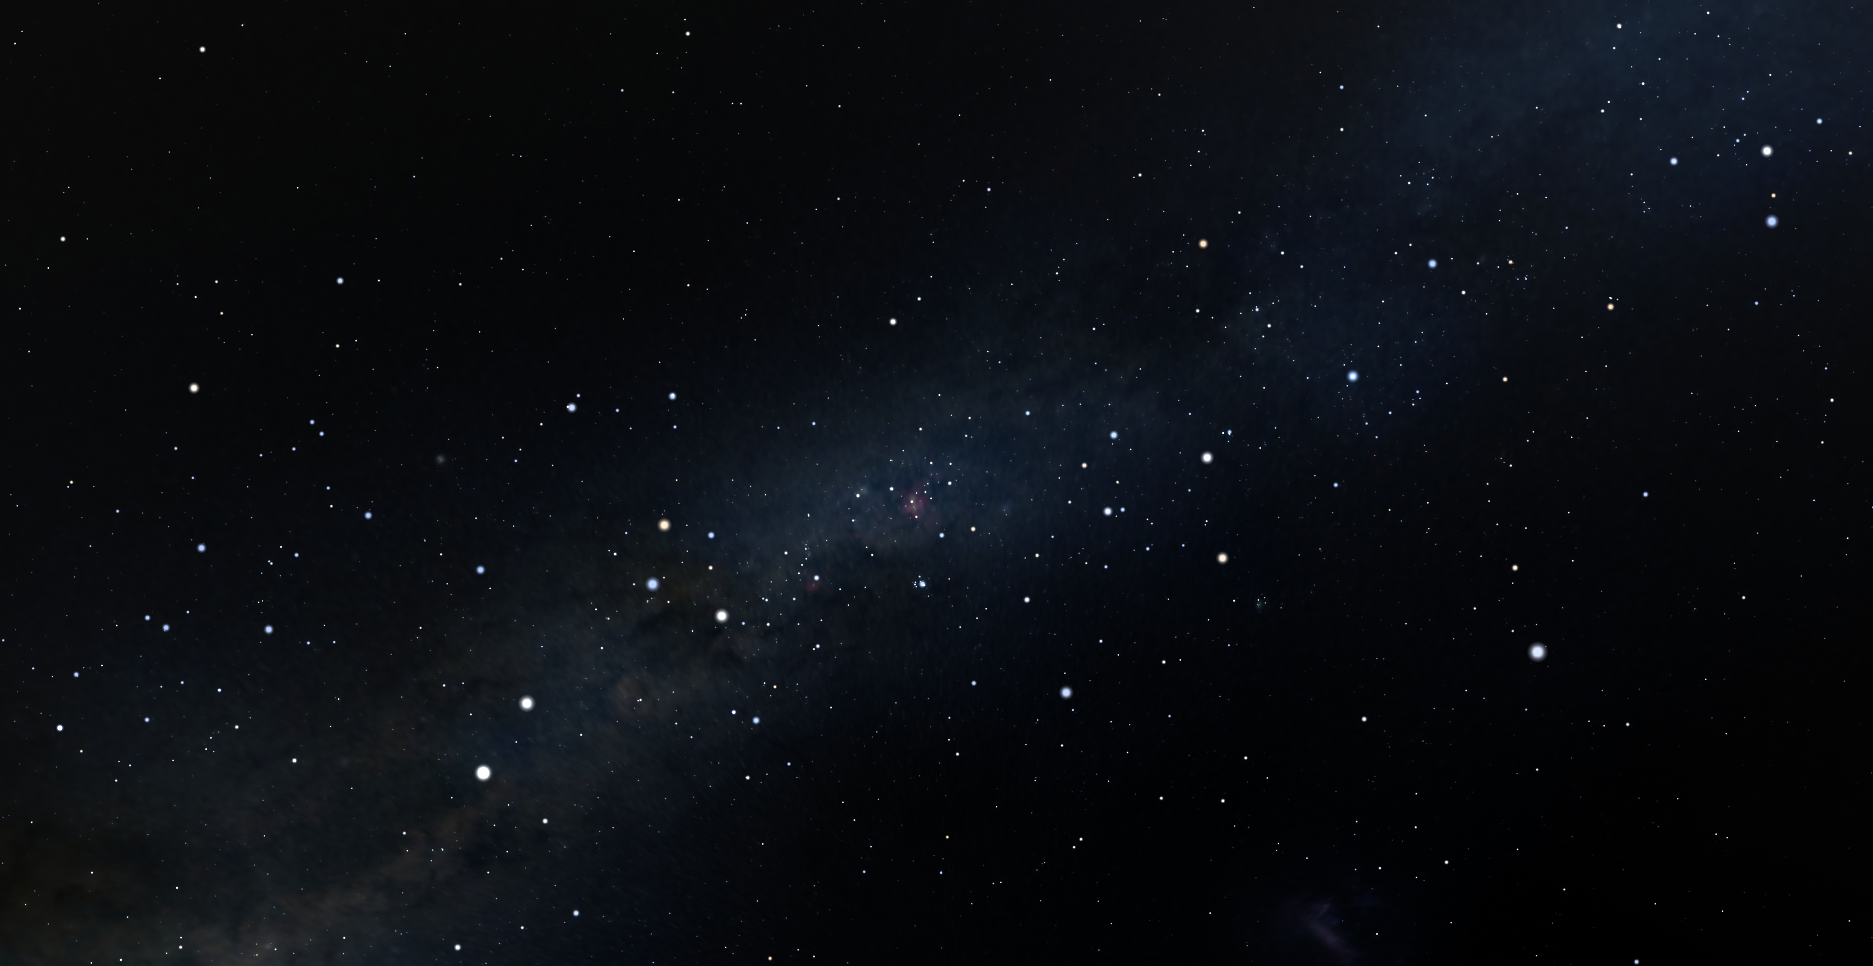
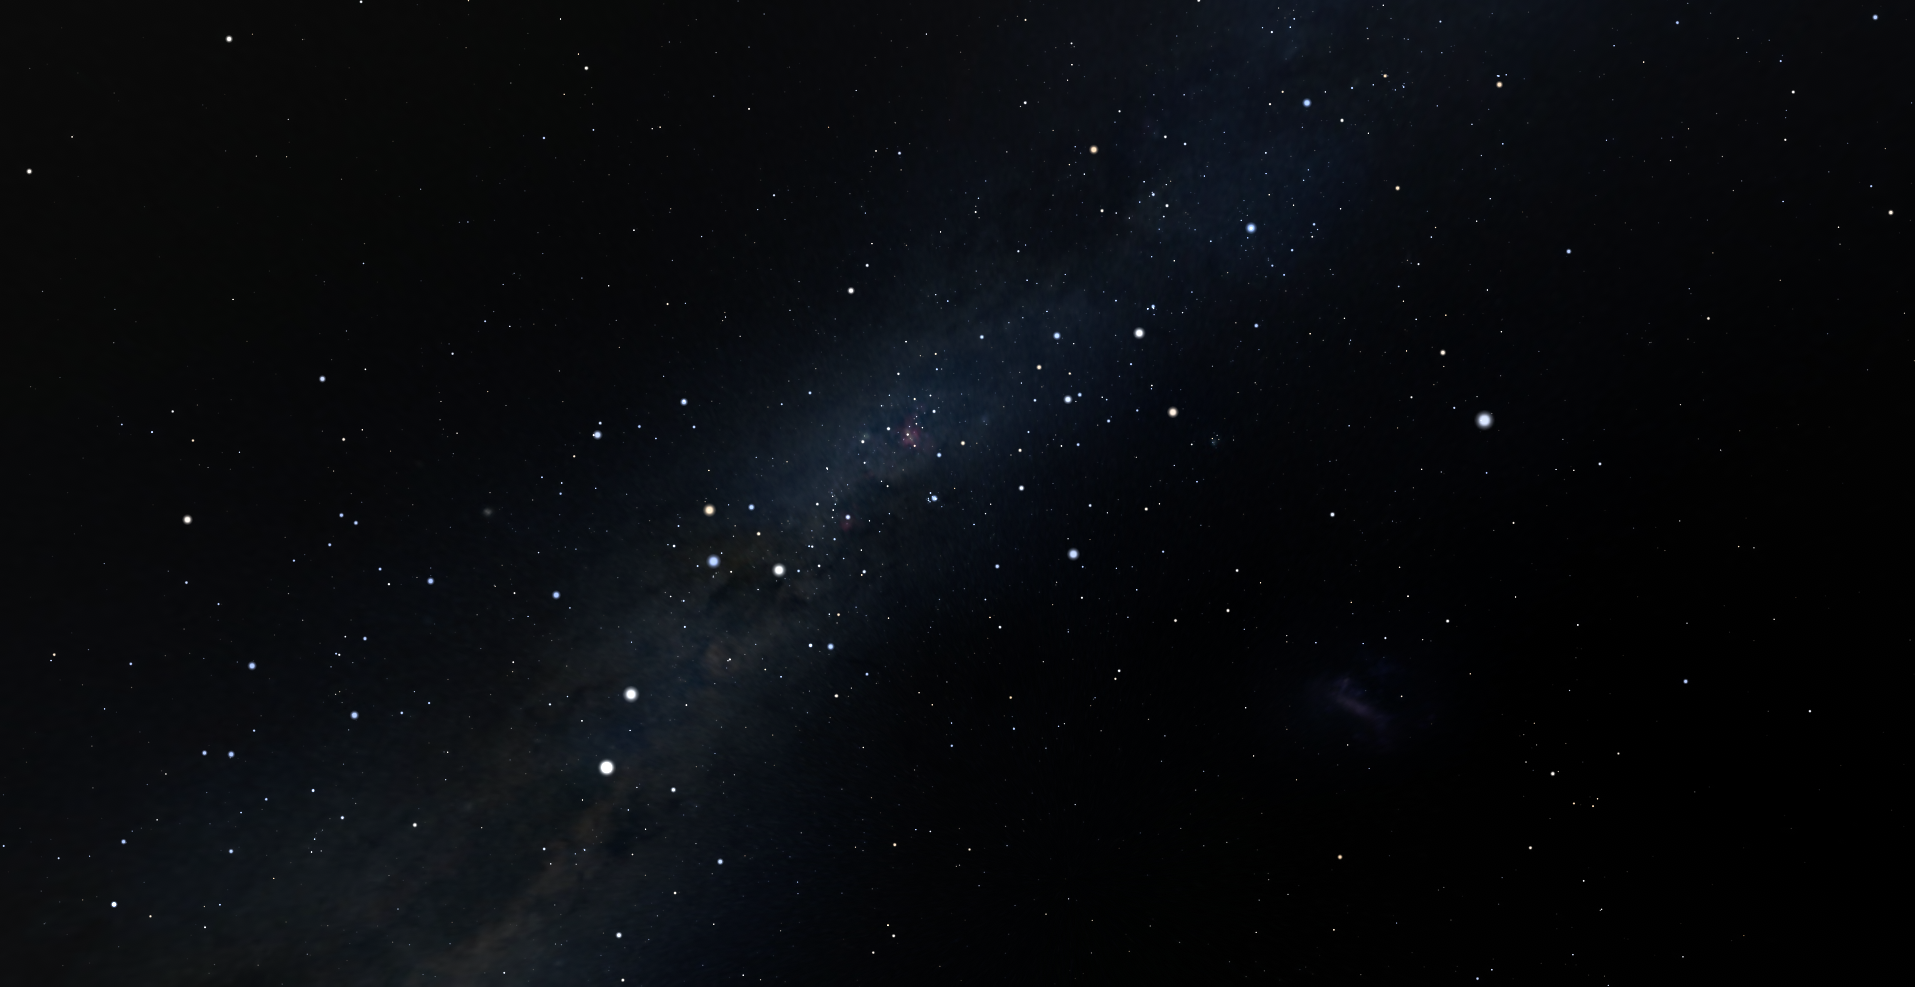
Correct Images, and correct pov

diff --git a/src/pair_approach/main.py b/src/pair_approach/main.py
@@ -13,7 +13,7 @@ from attitude_determination.compute import calculate_attitude, print_results
 IMAGE_PATH = os.path.join(os.path.dirname(__file__), '../images/MatchingImage.png')
 CATALOG_PATH = os.path.join(os.path.dirname(__file__), '../HipparcosCatalog.txt')
 OUTPUT_VECTOR_CSV = os.path.join(os.path.dirname(__file__), '../outputs/star_vectors.csv')
-FOV_DEG = 30
+FOV_DEG = 66
 QUEST_MEASUREMENTS_FILE = os.path.join(os.path.dirname(__file__), '../outputs/quest_measurements.txt')
 
 # --- PIPELINE ---

diff --git a/src/other_approach/main.py b/src/other_approach/main.py
@@ -10,7 +10,7 @@ from utils.io import print_matched_stars, save_matched_stars_to_csv
 IMAGE_PATH = "../images/MatchingImage.png"
 CATALOG_PATH = "../HipparcosCatalog.txt"
 OUTPUT_MATCHED_CSV = "../outputs/matched_stars.csv"
-FOV_DEG = 69.9
+FOV_DEG = 66.9
 
 
 def main():
